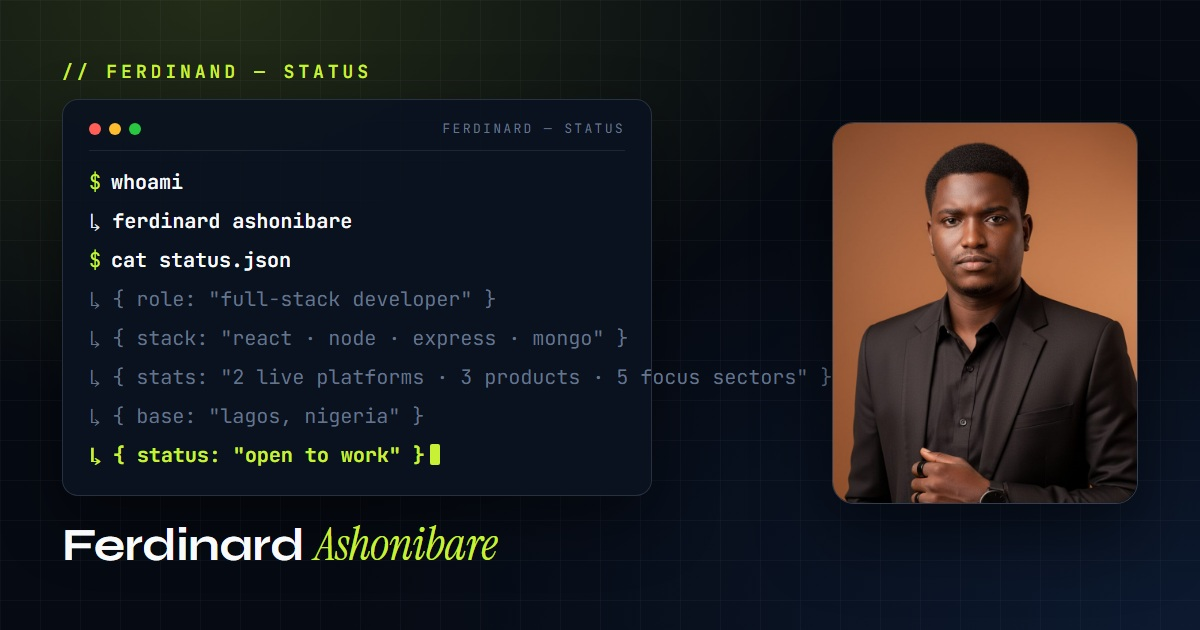
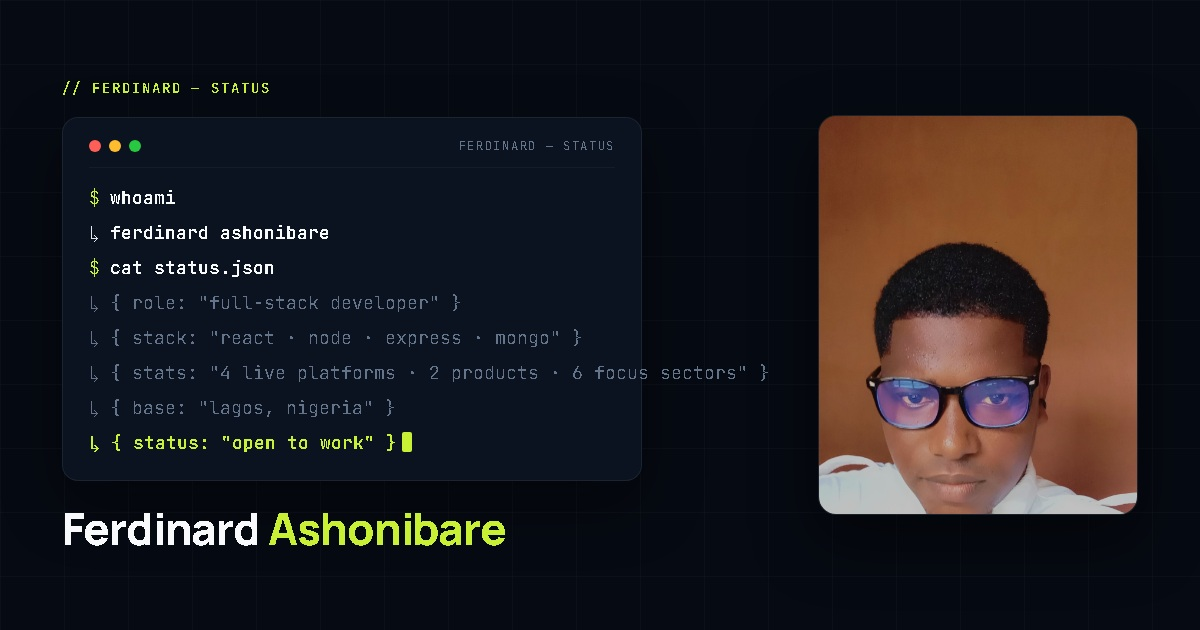
adjusting author

diff --git a/src/components/sections/HeroSection.jsx b/src/components/sections/HeroSection.jsx
@@ -1,5 +1,6 @@
 import { Button } from '../ui/Button';
 import ResumeButton from '../ui/ResumeButton';
+import ProfilePhoto from '../ui/ProfilePhoto';
 import ProjectFrame from '../ui/ProjectFrame';
 import TerminalCard from './TerminalCard';
 import { featuredProject, projects } from '../../content';
@@ -12,63 +13,67 @@ const HeroSection = () => {
       <div className="bg-grid-ink absolute inset-0" aria-hidden="true" />
 
       <div className="relative mx-auto max-w-7xl px-5 pb-12 pt-12 sm:px-8 sm:pb-20 sm:pt-16 lg:px-10 lg:pb-28 lg:pt-24">
-        {/* Hook headline: achievement first */}
-        <div className="max-w-3xl">
-          <p className="eyebrow">Full-stack web developer, Lagos, Nigeria</p>
+        {/* Two-column: text left, photo right on desktop */}
+        <div className="grid gap-10 lg:grid-cols-[1.1fr_0.9fr] lg:items-start lg:gap-14">
+          {/* Left: text content */}
+          <div className="max-w-2xl">
+            <p className="eyebrow">Full-stack web developer, Lagos, Nigeria</p>
 
-          <h1
-            className="display-ink mt-5 text-[clamp(2.25rem,6vw,5.5rem)] text-white"
-            aria-label="Ferdinard Ashonibare"
-          >
-            <span className="block">Ferdinard</span>
-            <span className="block text-signal">Ashonibare</span>
-          </h1>
+            <h1
+              className="display-ink mt-5 text-[clamp(2.25rem,6vw,5.5rem)] text-white"
+              aria-label="Ferdinard Ashonibare"
+            >
+              <span className="block">Ferdinard</span>
+              <span className="block text-signal">Ashonibare</span>
+            </h1>
 
-          <p className="mt-5 max-w-2xl text-base leading-7 text-slate-300 sm:text-lg sm:leading-8">
-            I design and build fast, secure web platforms for government, hospitality, education,
-            real estate, and beyond. From first sketch to production deployment, end to end.
-          </p>
+            <p className="mt-5 max-w-xl text-base leading-7 text-slate-300 sm:text-lg sm:leading-8">
+              I design and build fast, secure web platforms for government, hospitality, education,
+              real estate, and beyond. From first sketch to production deployment, end to end.
+            </p>
 
-          <div className="mt-7 flex flex-col gap-3 sm:flex-row sm:flex-wrap sm:items-center sm:gap-4">
-            <Button href="/case-study" icon>
-              Read the case study
-            </Button>
-            <Button href="/work" variant="outline">
-              See all projects
-            </Button>
-            <ResumeButton>Resume</ResumeButton>
+            <div className="mt-7 flex flex-col gap-3 sm:flex-row sm:flex-wrap sm:items-center sm:gap-4">
+              <Button href="/case-study" icon>
+                Read the case study
+              </Button>
+              <Button href="/work" variant="outline">
+                See all projects
+              </Button>
+              <ResumeButton>Resume</ResumeButton>
+            </div>
+
+            {/* Trust indicators */}
+            <dl className="mt-10 flex flex-wrap gap-x-8 gap-y-4 border-t border-line pt-6 sm:gap-x-12">
+              <div>
+                <dt className="display-ink text-2xl text-signal sm:text-3xl">{liveProjects.length}</dt>
+                <dd className="mono-label mt-1 text-[0.6rem] leading-3 text-slate-500 sm:text-[0.65rem]">
+                  Live platforms
+                </dd>
+              </div>
+              <div>
+                <dt className="display-ink text-2xl text-signal sm:text-3xl">{'≈48KB'}</dt>
+                <dd className="mono-label mt-1 text-[0.6rem] leading-3 text-slate-500 sm:text-[0.65rem]">
+                  So-Safe Corps page weight
+                </dd>
+              </div>
+              <div>
+                <dt className="display-ink text-2xl text-signal sm:text-3xl">{'≈0.1s'}</dt>
+                <dd className="mono-label mt-1 text-[0.6rem] leading-3 text-slate-500 sm:text-[0.65rem]">
+                  Time to first byte
+                </dd>
+              </div>
+            </dl>
           </div>
 
-          {/* Trust indicators */}
-          <dl className="mt-10 flex flex-wrap gap-x-8 gap-y-4 border-t border-line pt-6 sm:gap-x-12">
-            <div>
-              <dt className="display-ink text-2xl text-signal sm:text-3xl">{liveProjects.length}</dt>
-              <dd className="mono-label mt-1 text-[0.6rem] leading-3 text-slate-500 sm:text-[0.65rem]">
-                Live platforms
-              </dd>
-            </div>
-            <div>
-              <dt className="display-ink text-2xl text-signal sm:text-3xl">{'≈48KB'}</dt>
-              <dd className="mono-label mt-1 text-[0.6rem] leading-3 text-slate-500 sm:text-[0.65rem]">
-                So-Safe Corps page weight
-              </dd>
-            </div>
-            <div>
-              <dt className="display-ink text-2xl text-signal sm:text-3xl">{'≈0.1s'}</dt>
-              <dd className="mono-label mt-1 text-[0.6rem] leading-3 text-slate-500 sm:text-[0.65rem]">
-                Time to first byte
-              </dd>
-            </div>
-          </dl>
-        </div>
-
-        {/* Terminal card */}
-        <div className="mt-8 lg:mt-10">
-          <TerminalCard />
+          {/* Right: portrait + terminal card */}
+          <div className="flex flex-col gap-6">
+            <ProfilePhoto priority className="w-full max-w-sm lg:max-w-none" />
+            <TerminalCard />
+          </div>
         </div>
 
         {/* Full-bleed project screenshot with browser chrome */}
-        <div className="mt-10 lg:mt-14">
+        <div className="mt-14 sm:mt-16 lg:mt-20">
           <ProjectFrame project={featuredProject} eager />
           <p className="mono-label mt-4 text-center text-slate-600">
             {featuredProject.name}. {featuredProject.domain}. {featuredProject.status === 'live' ? 'Live in production.' : 'Launching soon.'}

diff --git a/src/components/ui/ProfilePhoto.jsx b/src/components/ui/ProfilePhoto.jsx
@@ -1,36 +1,20 @@
 import { useEffect, useRef, useState } from 'react';
 
-// The photo is picked up from either location — `public/profile.jpg` is the
-// canonical spot, but a photo placed in `public/images/` works too.
-const CANDIDATES = ['/profile.jpg', '/images/profile.jpg'];
-
 /**
  * Profile photo slot.
  *
- * Drop a 4:5 portrait (~800×1000) into `public/profile.jpg` (or
- * `public/images/profile.jpg`) and it will render automatically. Until then,
- * an on-brand monogram card is shown instead.
+ * Renders the portrait from /profile.jpg with a responsive fallback at /profile-sm.jpg.
+ * Falls back to an on-brand monogram card if no image is found.
  */
 const ProfilePhoto = ({ className = '', priority = false }) => {
   const [status, setStatus] = useState('loading');
-  const [srcIndex, setSrcIndex] = useState(0);
   const imgRef = useRef(null);
 
-  // If the image is already cached (loaded before hydration), onLoad may never fire
-  // again — check the element's completed state on mount so the photo never stays
-  // stuck invisible.
   useEffect(() => {
     const img = imgRef.current;
     if (img && img.complete) {
-      if (img.naturalWidth > 0) {
-        setStatus('ok');
-      } else if (srcIndex < CANDIDATES.length - 1) {
-        setSrcIndex(srcIndex + 1);
-      } else {
-        setStatus('missing');
-      }
+      setStatus(img.naturalWidth > 0 ? 'ok' : 'missing');
     }
-    // eslint-disable-next-line react-hooks/exhaustive-deps
   }, []);
 
   if (status === 'missing') {
@@ -48,24 +32,30 @@ const ProfilePhoto = ({ className = '', priority = false }) => {
   }
 
   return (
-    <img
-      ref={imgRef}
-      src={CANDIDATES[srcIndex]}
-      alt="Portrait of Ferdinard Ashonibare"
-      onLoad={() => setStatus('ok')}
-      onError={() => {
-        if (srcIndex < CANDIDATES.length - 1) {
-          setSrcIndex(srcIndex + 1);
-        } else {
-          setStatus('missing');
-        }
-      }}
-      loading={priority ? 'eager' : 'lazy'}
-      {...(priority ? { fetchPriority: 'high', decoding: 'sync' } : {})}
-      className={`aspect-[4/5] w-full rounded-2xl border border-line object-cover transition-opacity duration-300 ${
-        status === 'ok' ? 'opacity-100' : 'opacity-0'
-      } ${className}`.trim()}
-    />
+    <div className={`relative ${className}`.trim()}>
+      {/* Subtle glow behind the photo */}
+      <div
+        className="absolute -inset-3 rounded-3xl opacity-30 blur-2xl"
+        style={{ background: 'radial-gradient(ellipse at center, rgba(200,241,53,0.15), transparent 70%)' }}
+        aria-hidden="true"
+      />
+      <img
+        ref={imgRef}
+        src="/profile.jpg"
+        srcSet="/profile-sm.jpg 600w, /profile.jpg 900w"
+        sizes="(max-width: 1024px) 280px, 360px"
+        alt="Portrait of Ferdinard Ashonibare"
+        width={768}
+        height={1024}
+        onLoad={() => setStatus('ok')}
+        onError={() => setStatus('missing')}
+        loading={priority ? 'eager' : 'lazy'}
+        {...(priority ? { fetchPriority: 'high', decoding: 'async' } : {})}
+        className={`relative aspect-[3/4] w-full rounded-2xl border border-line object-cover transition-opacity duration-300 ${
+          status === 'ok' ? 'opacity-100' : 'opacity-0'
+        }`}
+      />
+    </div>
   );
 };
 

diff --git a/src/components/layout/Header.jsx b/src/components/layout/Header.jsx
@@ -11,8 +11,8 @@ const navClass = ({ isActive }) =>
 
 const Header = () => {
   const [isOpen, setIsOpen] = useState(false);
+  const [visible, setVisible] = useState(true);
   const [scrolled, setScrolled] = useState(false);
-  const [isHidden, setIsHidden] = useState(false);
   const prevY = useRef(0);
   const closeMenu = () => setIsOpen(false);
   const location = useLocation();
@@ -22,19 +22,19 @@ const Header = () => {
       const y = window.scrollY;
       setScrolled(y > 12);
 
-      if (isOpen) {
-        prevY.current = y;
-        return;
-      }
-
-      if (y > prevY.current && y > 160) {
-        setIsHidden(true);
-      } else if (y < prevY.current) {
-        setIsHidden(false);
+      // Always show at the very top
+      if (y < 10) {
+        setVisible(true);
+      } else if (isOpen) {
+        setVisible(true);
+      } else {
+        // Any upward scroll → show. Downward → hide.
+        setVisible(y <= prevY.current);
       }
 
       prevY.current = y;
     };
+
     onScroll();
     window.addEventListener('scroll', onScroll, { passive: true });
     return () => window.removeEventListener('scroll', onScroll);
@@ -46,12 +46,12 @@ const Header = () => {
 
   return (
     <header
-      className={`sticky top-0 z-40 border-b transition-[translate,border-color] duration-300 ease-out ${
-        isHidden ? '-translate-y-full' : 'translate-y-0'
+      className={`fixed top-0 left-0 right-0 z-40 border-b transition-[transform,border-color,background-color] duration-200 ease-out ${
+        visible ? 'translate-y-0' : '-translate-y-full'
       } ${
         scrolled || isOpen
-          ? 'border-line bg-ink'
-          : 'border-transparent bg-ink/80'
+          ? 'border-line bg-ink/95 backdrop-blur-sm'
+          : 'border-transparent bg-transparent'
       }`}
     >
       <div className="mx-auto flex max-w-7xl items-center justify-between gap-4 px-6 py-4 lg:px-10">

diff --git a/index.html b/index.html
@@ -25,8 +25,9 @@
          The crossorigin attribute is required for font preloads. -->
     <link rel="preload" as="font" type="font/woff2" href="/fonts/manrope-latin.woff2" crossorigin />
     <link rel="preload" as="font" type="font/woff2" href="/fonts/dm-sans-latin.woff2" crossorigin />
-    <!-- Preload the hero image (LCP element) so it starts downloading immediately -->
+    <!-- Preload the hero images (LCP elements) so they start downloading immediately -->
     <link rel="preload" as="image" href="/projects/so-safe-corps-sm.jpg" />
+    <link rel="preload" as="image" href="/profile.jpg" />
     <script async src="https://news.google.com/swg/js/v1/publisher.js"></script>
     <noscript>
       <style>

diff --git a/src/layout/MainLayout.jsx b/src/layout/MainLayout.jsx
@@ -86,7 +86,7 @@ const MainLayout = () => {
       </a>
       <div className="relative isolate overflow-x-hidden">
         <Header />
-        <main id="main-content" className="flex-1">
+        <main id="main-content" className="flex-1 pt-[72px]">
           <Outlet />
         </main>
         <Footer />
